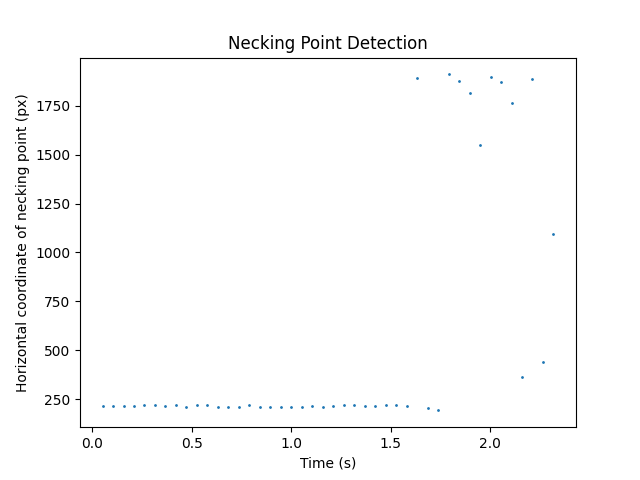
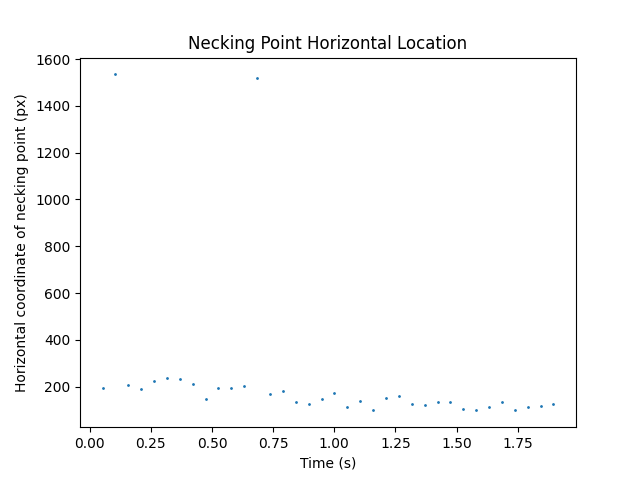
strains and poisson ratio plotting

diff --git a/analysis.py b/analysis.py
@@ -76,28 +76,42 @@ def analyze_marker_deltas():
     m2_y = m2_df['y (px)'].values
 
     # find euclidean distances of markers
-    marker_deltas = []
+    marker_distances = []
     for i in range(len(time)):
         euclidean_dist = marker_euclidean_distance(m1_x[i], m1_y[i], m2_x[i], m2_y[i])
-        marker_deltas.append(np.abs(euclidean_dist))
+        marker_distances.append(np.abs(euclidean_dist))
     
-    print(np.mean(marker_deltas), len(m1_x), len(m2_x), len(marker_deltas), marker_deltas[0], marker_deltas[-1])
+    print(np.mean(marker_distances), len(m1_x), len(m2_x), len(marker_distances), marker_distances[0], marker_distances[-1])
+
+    # longitudinal strain (deltaL / L0)
+    L0 = marker_distances[0]
+    longitudinal_strain = [(L-L0) / L0 for L in marker_distances]
 
     plot_args = {
-        'title': 'Marker Delta Tracking',
+        'title': r'Marker Delta Tracking',
         'x_label': 'Time (s)',
         'y_label': 'Marker Deltas (px)',
         'data_label': '',
         'has_legend': False
     }
 
-    fig, ax = plot_data(time, marker_deltas, plot_args)
+    # plot marker distances
+    fig, ax = plot_data(time, marker_distances, plot_args)
     fig.savefig("figures/marker_deltas.png")
+
+    # plot longitudinal strain
+    plot_args['title'] = r'Longitudinal strain - ${\epsilon}_{l}(t)$'
+    plot_args['y_label'] = r'${\epsilon}_{l}$'
+    longitudinal_strain_fig, longitudinal_strain_ax = plot_data(time, longitudinal_strain, plot_args)
+    longitudinal_strain_fig.savefig("figures/longitudinal_strain.png")
+
     print("Done")
+
+    return time, longitudinal_strain
 
 
 def analyze_necking_point():
-    """plots necking point data, x location of necking point against time
+    """plots necking point data, x location of necking point against time, as well as diameter at necking point
     reads from 'output/Necking_Point_Output.csv' which is created in the necking point tracking process
     saves plot in 'figures' folder
     """    
@@ -107,17 +121,72 @@ def analyze_necking_point():
 
     time = df['Time(s)'].values
     necking_pt_x = df['x at necking point (px)'].values
+    necking_pt_len = df['y necking distance (px)'].values
+
+    # radial strain (deltaR / R0)
+    R0 = necking_pt_len[0]
+    radial_strain = [(R - R0) / R0 for R in necking_pt_len]
 
     plot_args = {
-        'title': 'Necking Point Detection',
+        'title': 'Necking Point Horizontal Location',
         'x_label': 'Time (s)',
         'y_label': 'Horizontal coordinate of necking point (px)',
         'data_label': '',
         'has_legend': False
     }
 
-    fig, ax = plot_data(time, necking_pt_x, plot_args)
-    fig.savefig("figures/necking_point_location.png")
+    # plot x location of necking point over time
+    necking_pt_loc_fig, necking_pt_loc_ax = plot_data(time, necking_pt_x, plot_args)
+    necking_pt_loc_fig.savefig("figures/necking_point_location.png")
+
+    # plot diameter at necking point
+    plot_args['title'] = r'Diameter of Hydrogel at Necking Point' 
+    plot_args['y_label'] = 'Diameter (px)'
+    necking_pt_len_fig, necking_pt_len_ax = plot_data(time, necking_pt_len, plot_args)
+    necking_pt_len_fig.savefig("figures/diameter_at_necking_point.png")
+
+    # plot radial strain
+    plot_args['title'] = r'Radial strain - ${\epsilon}_{r}(t)$'
+    plot_args['y_label'] = '${\epsilon}_{r}$'
+    radial_strain_fig, radial_strain_ax = plot_data(time, radial_strain, plot_args)
+    radial_strain_fig.savefig("figures/radial_strain.png")
+    print("Done")
+
+    return time, radial_strain
+
+def poissons_ratio():
+    marker_time, longitudinal_strain = analyze_marker_deltas()
+    necking_time, radial_strain = analyze_necking_point()
+
+    print("Finding Poisson's ratio...")
+
+    # ensure tracking operations previously ran on the same data in the same time range
+    if not (marker_time[0] == necking_time[0] and marker_time[-1] == necking_time[-1] and len(marker_time) == len(necking_time)):
+        msg = "Error: Found discrepancies in marker deltas output and necking point output.\n"+\
+        "please ensure that both marker tracking and necking point detection are run on the same experiment within the same time frame."
+        error_popup(msg)
+
+    time = marker_time # if passes error check, times are same
+
+    # calculate poisson's ratio, radial / longitudinal
+    poisson_ratios = []
+    for i in range(len(time)):
+        if longitudinal_strain[i] != 0:
+            v = radial_strain[i] / longitudinal_strain[i]
+        else:
+            v = 0
+        poisson_ratios.append(v)
+
+    plot_args = {
+        'title': r"Poisson's Ratio - $\mathit{v(t)}$",
+        'x_label': 'Time (s)',
+        'y_label': r"Poisson's Ratio $\mathit{v}$",
+        'data_label': '',
+        'has_legend': False
+    }
+
+    poisson_fig, poisson_ax = plot_data(time, poisson_ratios, plot_args)
+    poisson_fig.savefig("figures/poissons_ratio.png")
 
     print("Done")
 

diff --git a/main.py b/main.py
@@ -116,8 +116,10 @@ class TrackingUI:
         track_btn.grid(row=0, column=0, columnspan=2, padx=32, pady=24)
         marker_deltas_btn = ttk.Button(submit_frame, text="Marker deltas analysis", command=analysis.analyze_marker_deltas, style='Regular.TButton')
         marker_deltas_btn.grid(row=1, column=0, padx=4, pady=4)
-        analyze_data_btn = ttk.Button(submit_frame, text="Necking point analysis", command=analysis.analyze_necking_point, style='Regular.TButton')
-        analyze_data_btn.grid(row=1, column=1, padx=4, pady=4)
+        necking_pt_btn = ttk.Button(submit_frame, text="Necking point analysis", command=analysis.analyze_necking_point, style='Regular.TButton')
+        necking_pt_btn.grid(row=1, column=1, padx=4, pady=4)
+        poissons_ratio_btn = ttk.Button(submit_frame, text="Poisson's ratio", command=analysis.poissons_ratio, style='Regular.TButton')
+        poissons_ratio_btn.grid(row=2, column=0, columnspan=2, padx=4, pady=4)
         exit_btn = ttk.Button(submit_frame, text='Exit', command=sys.exit, style='Regular.TButton')
         exit_btn.grid(row=10, column=0, columnspan=2, padx=32, pady=(24,12))
         submit_frame.grid(row=20, column=0)
@@ -195,6 +197,7 @@ class TrackingUI:
                                         title='Browse for video file',
                                         filetypes=[("Audio Video Interleave", "*.avi"),
                                                 ("MPEG-4 Part 14", "*.mp4"),
+                                                ("Tag Image File Format", "*.tiff"),
                                                 ("Matroska", "*.mkv"),
                                                 ("QuickTime Movie", "*.mov"),
                                                 ("Windows Media Video", "*.wmv"),

diff --git a/CHANGELOG.md b/CHANGELOG.md
@@ -7,10 +7,37 @@
     - artifacts outside the tube have edges being detected
 
 ## TODO
+Hydrogel
+- poisson's ratio over time
+
+Multi purpose
+- open a plot and click points to remove for manual outliar removal
+- plot customs json from bratadio and reading capabilities
+
+Cell Mechanics
+- cell spread area over time
+- for cell tracking:
+   - total travel distance (RMS displacement)
+   - velocity (pixels per frame)
+
 - gaussian blur before frame binarization?
-- add tiff to file selection
 
 # Changelog
+
+2/18
+- added tiff to available files for reading
+- added longitudinal strain plot for marker deltas
+- added radial strain plot to necking point analysis
+    - plots necking point length (diameter of gel at necking point) vs time
+- added button for poissons ratio
+- added error checking for poissons ratio calculations
+    - checks if tracking operations previously ran on the same data in the same time range
+- added analysis for poissons ratio
+    - first runs marker deltas and necking point
+    - error checks
+    - calculate poissons ratio (radial strain / longitudinal strain)
+    - plot
+
 
 2/16
 - frame selector works
